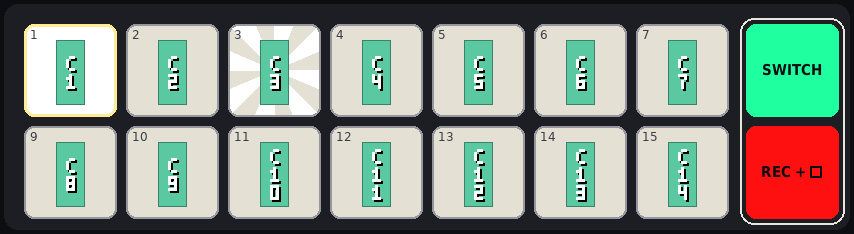
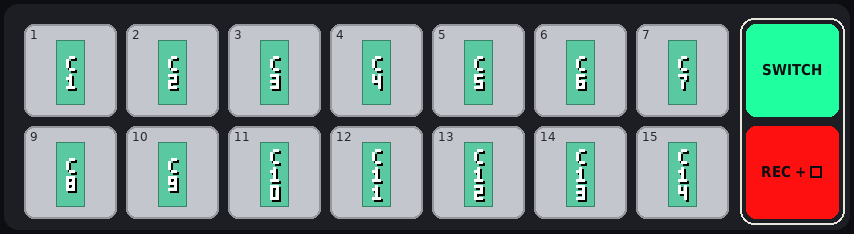
Pads as keys: light grey when off, dark grey inactive keys, each pad's light as the firmware shows it by default (MUTE ALL on)
Claude-Session: https://claude.ai/code/session_01N9f4HJn3ZZ4mEGDi7YNfQW

diff --git a/docs/_FR/22-reperes-ecran-et-menus.md b/docs/_FR/22-reperes-ecran-et-menus.md
@@ -228,7 +228,7 @@ Trois niveaux de lecture. 1 — tous les modes en toutes lettres, dans les coule
 
 <p align="center"><img src="../img/pads-all-modes-short.png" width="560" alt="pads"></p>
 
-3 — chaque pad avec la touche qu’il remplace, comme le clavier à l’écran la dessine (même fonction, même couleur : rose = validé au relâché sur le clavier, menthe = agit tout de suite, violet = piste qui joue ; une touche noire entre ses deux blanches grises). Le fond du pad montre sa lumière : blanc cassé éteint, blanc vif allumé, rayons blancs clignotant (un exemple par mode) :
+3 — chaque pad avec la touche qu’il remplace, comme le clavier à l’écran la dessine (même fonction, même couleur : rose = validé au relâché sur le clavier, menthe = agit tout de suite, violet = piste qui joue ; une touche noire entre ses deux blanches gris foncé). Le fond du pad montre sa lumière par défaut (allumé, en lecture, les quatre pistes qui jouent) : gris clair éteint, blanc vif allumé. Clignotent seulement : un clip armé (rouge rapide) ou en LOOP (vert / violet), REC pendant une prise, MUTE ALL quand toutes les pistes sont coupées (rouge rapide) :
 
 <p align="center"><img src="../img/pads-all-modes-keys.png" width="560" alt="pads"></p>
 

diff --git a/docs/_EN/22-screen-keyboard-and-menus.md b/docs/_EN/22-screen-keyboard-and-menus.md
@@ -228,7 +228,7 @@ Three levels. 1 — every mode in full words, in the pads’ colours:
 
 <p align="center"><img src="../img/pads-all-modes-short.png" width="560" alt="pads"></p>
 
-3 — each pad with the key it stands for, as the screen keyboard draws it (same function, same colour: pink = valid on release on the keyboard, mint = acts at once, violet = a track playing; a black key between its two white keys in grey). The pad’s background shows its light: off-white off, bright white on, white rays blinking (an example in each mode):
+3 — each pad with the key it stands for, as the screen keyboard draws it (same function, same colour: pink = valid on release on the keyboard, mint = acts at once, violet = a track playing; a black key between its two white keys in dark grey). The pad’s background shows its light by default (on, playing, the four tracks playing): light grey off, bright white on. Only these blink: a clip armed (fast red) or in LOOP (green / violet), REC during a take, MUTE ALL when every track is out (fast red):
 
 <p align="center"><img src="../img/pads-all-modes-keys.png" width="560" alt="pads"></p>
 

diff --git a/README.md b/README.md
@@ -45,8 +45,9 @@ In short:
 <p align="center"><img src="docs/img/pads-all-modes-short.png" width="560" alt="The pads in each mode, in short, in the pads' colours"></p>
 
 And each pad as the key it stands for, drawn as the screen keyboard draws it (pink: valid on release on the keyboard,
-mint: acts at once, violet: a track playing); the pad's background shows its light: off-white off, bright white on,
-white rays blinking:
+mint: acts at once, violet: a track playing); the pad's background shows its light by default, playing: light grey
+off, bright white on (the tracks' mutes and MUTE ALL). Only a clip armed or in LOOP, REC during a take and MUTE ALL
+when every track is out blink:
 
 <p align="center"><img src="docs/img/pads-all-modes-keys.png" width="560" alt="Each pad with the key it stands for, in the screen keyboard's colours"></p>
 
